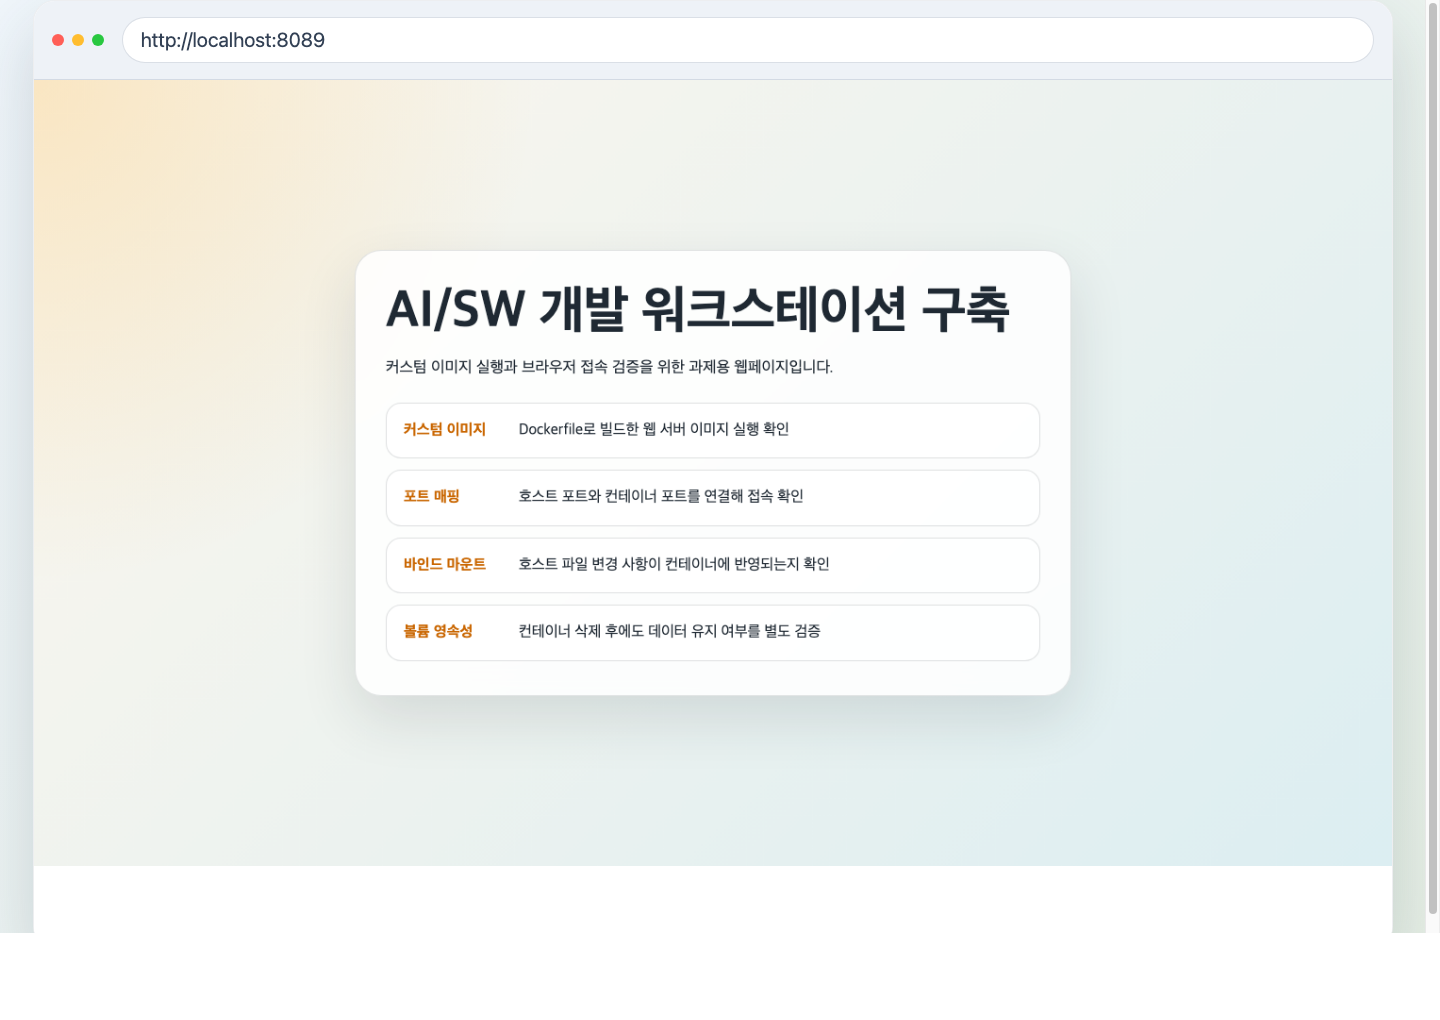
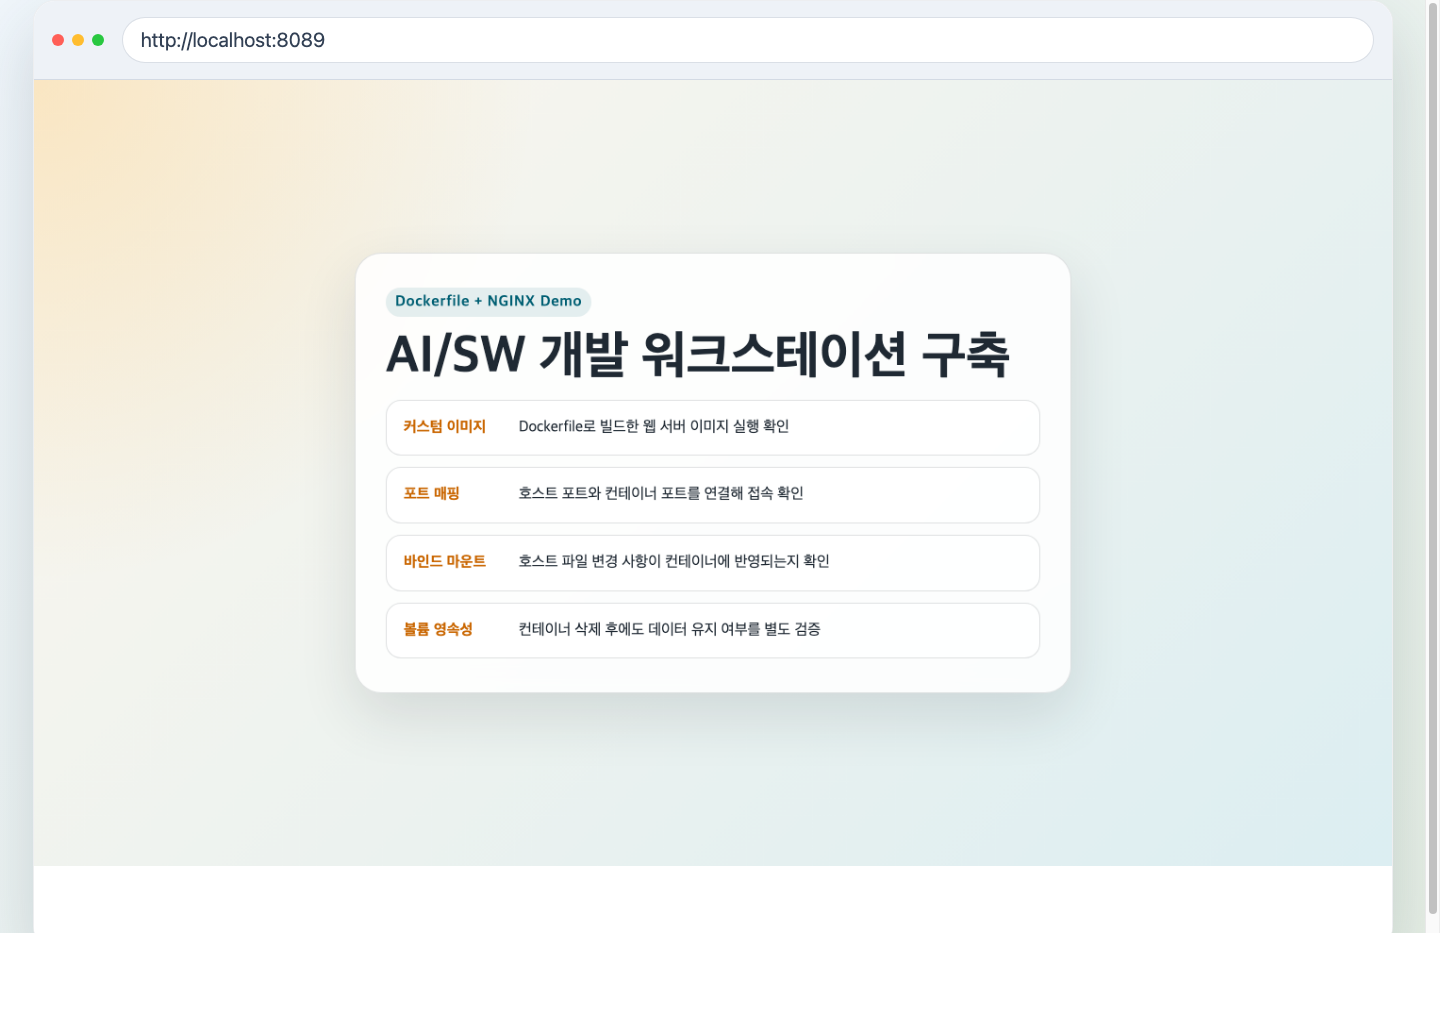
docs: restore demo badge on web screenshots

diff --git a/app/index.html b/app/index.html
@@ -42,16 +42,21 @@
         backdrop-filter: blur(12px);
       }
 
+      .eyebrow {
+        display: inline-block;
+        margin-bottom: 14px;
+        padding: 6px 10px;
+        border-radius: 999px;
+        background: rgba(0, 95, 115, 0.1);
+        color: var(--accent);
+        font-weight: 700;
+        letter-spacing: 0.04em;
+      }
+
       h1 {
         margin: 0 0 14px;
         font-size: clamp(2rem, 4vw, 3.4rem);
         line-height: 1.1;
-      }
-
-      .lead {
-        margin: 0 0 22px;
-        font-size: 1.05rem;
-        line-height: 1.7;
       }
 
       .checks {
@@ -84,8 +89,8 @@
   </head>
   <body>
     <main>
+      <span class="eyebrow">Dockerfile + NGINX Demo</span>
       <h1>AI/SW 개발 워크스테이션 구축</h1>
-      <p class="lead">커스텀 이미지 실행과 브라우저 접속 검증을 위한 과제용 웹페이지입니다.</p>
       <ul class="checks">
         <li class="check"><strong>커스텀 이미지</strong>Dockerfile로 빌드한 웹 서버 이미지 실행 확인</li>
         <li class="check"><strong>포트 매핑</strong>호스트 포트와 컨테이너 포트를 연결해 접속 확인</li>
